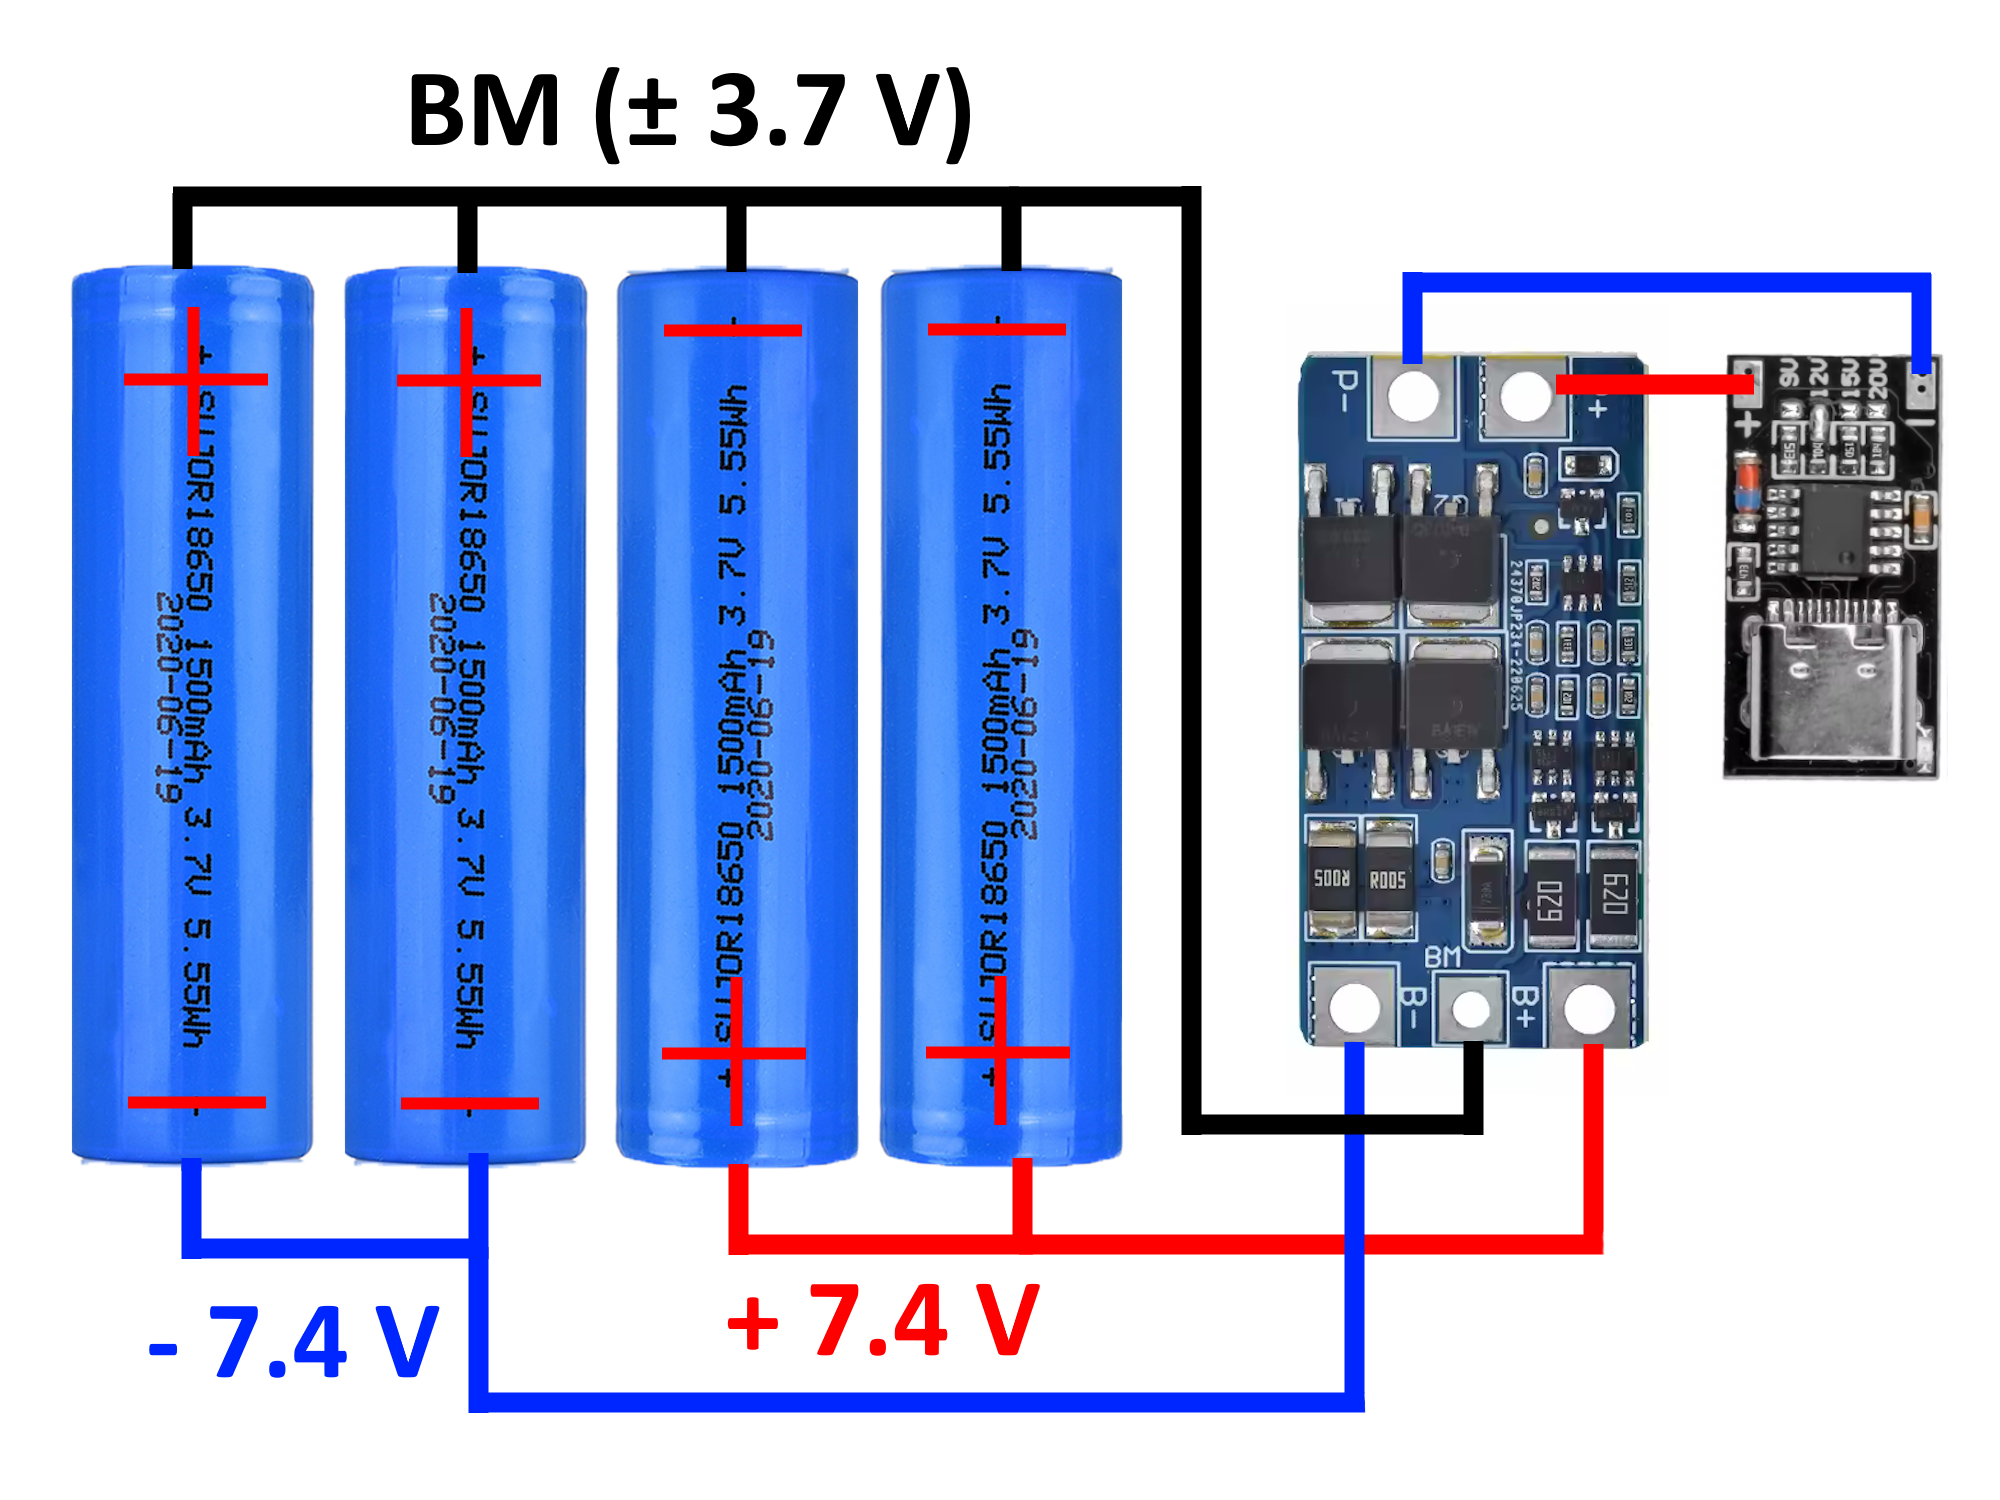
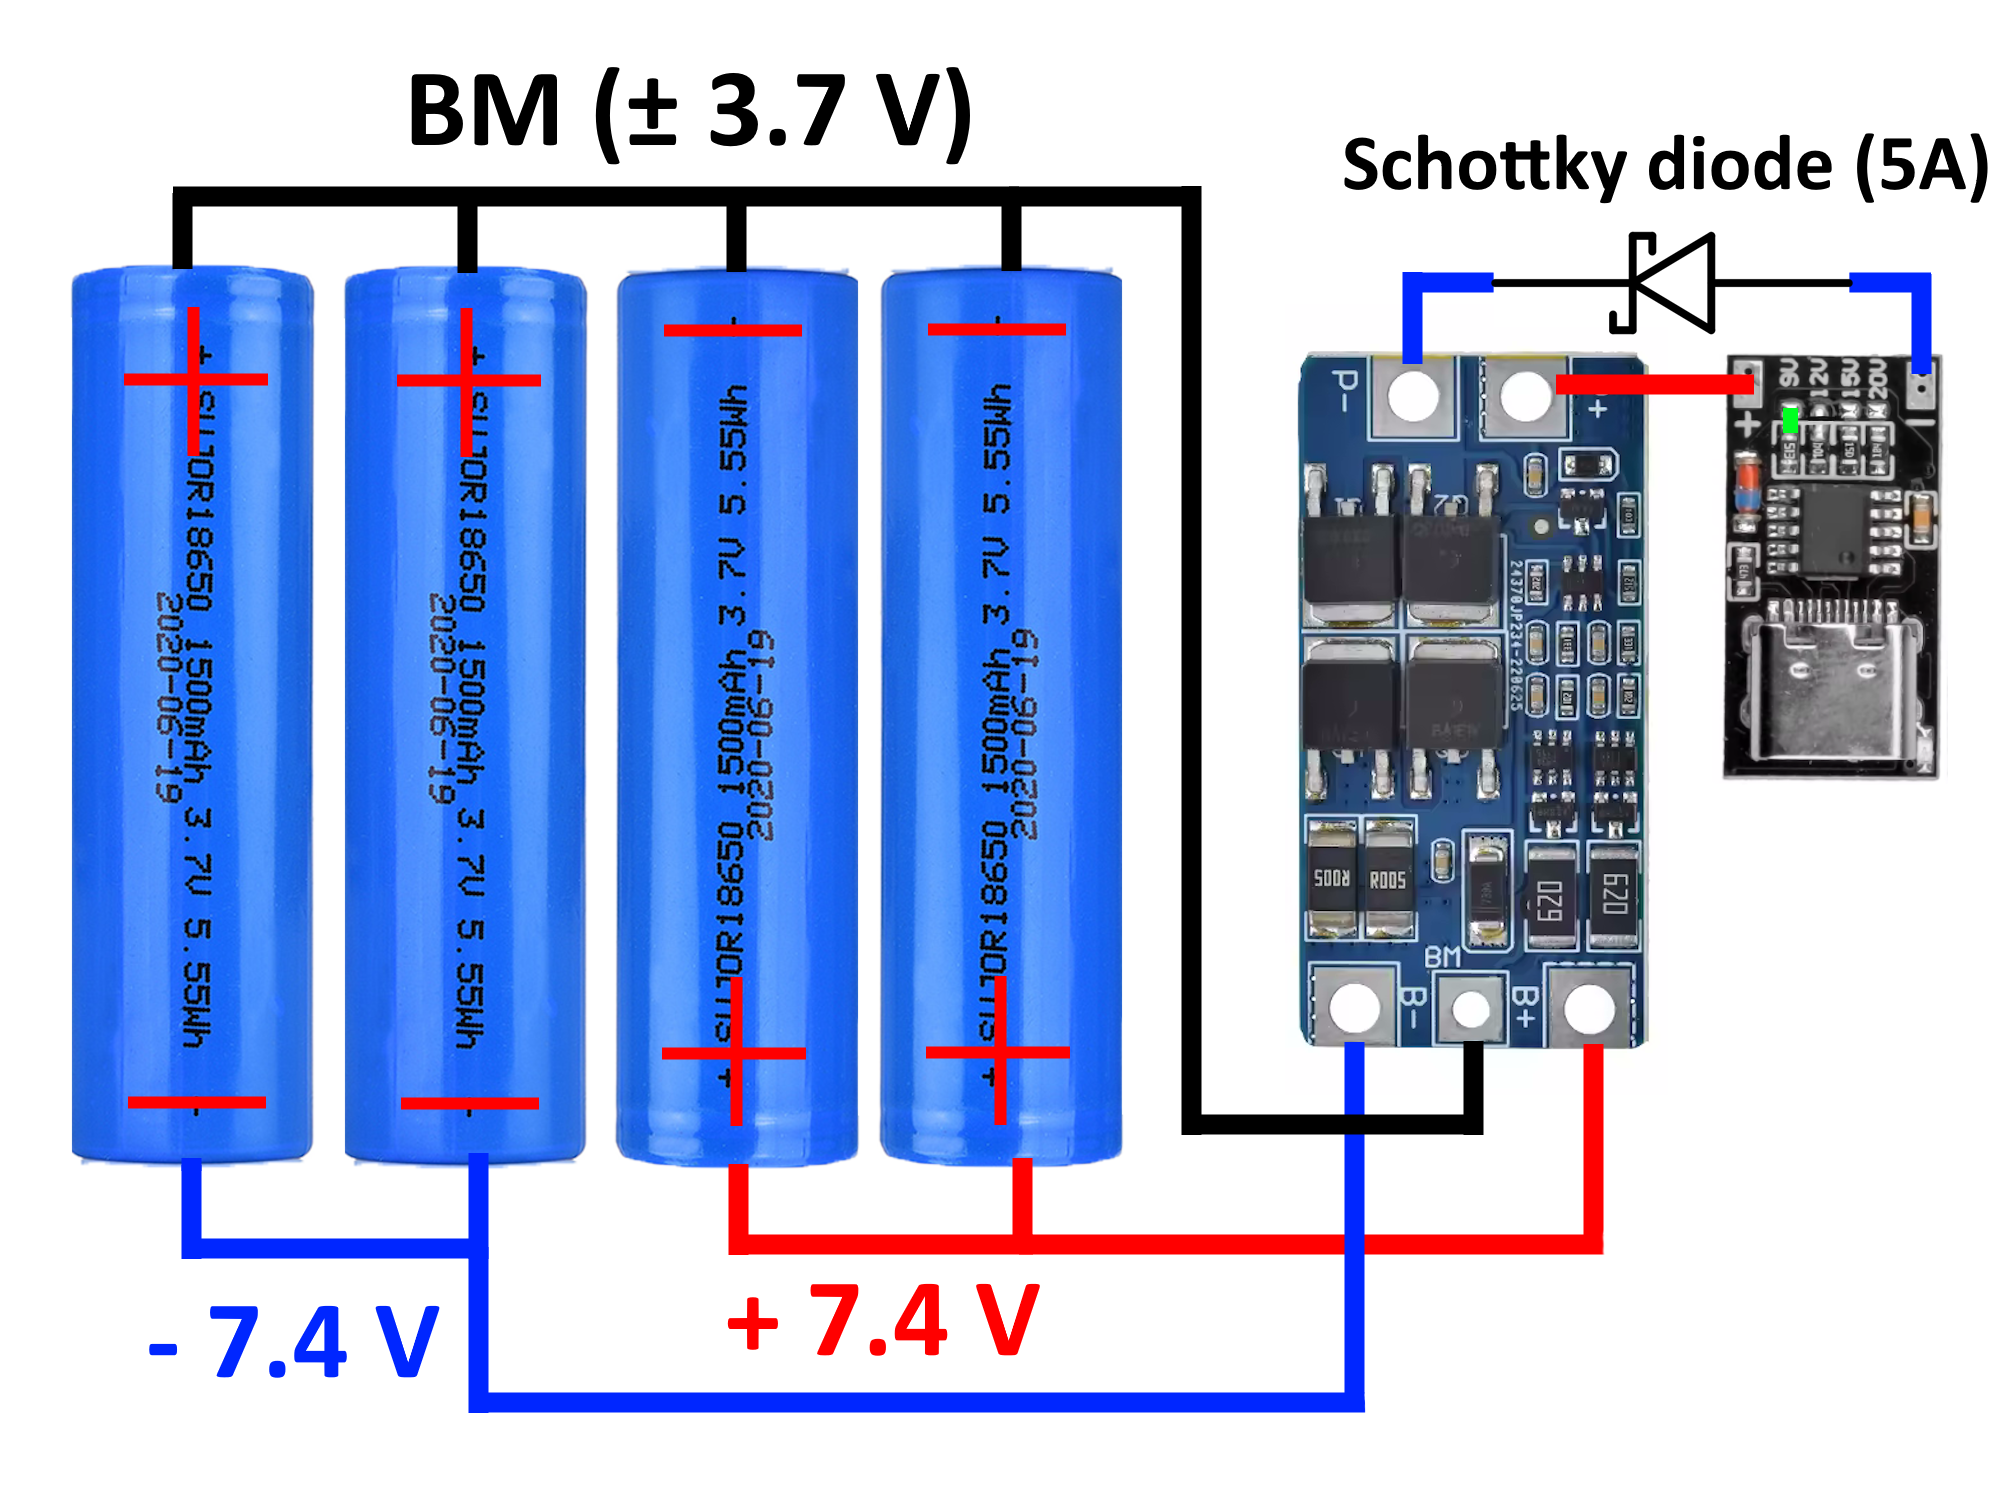
Added a README and further progress documentation

Changed region(s): [[0.651, 0.092, 1.0, 0.1533], [0.744, 0.1533, 0.93, 0.2147]]

diff --git a/README.md b/README.md
@@ -1,0 +1,91 @@
+#AirSoftHelper
+
+AirSoftHelper is a work in progress project designed for a local AirSoft team. It is supposed to replicate the visual and auditory functionality of a C4 explosive from the Counter Strike video game.
+
+##Implementation
+
+My iteration is based on Arduino Uno, receiving user input from a matrix keypad and displaying output on a TM1637 display module. In addition, the device uses two 3W drivers and a PAM8403 amplifier for audio feedback.
+
+#Build
+
+Keep in mind, that this was built under home conditions with common hand tools and materials.
+
+##Power
+
+I started off by taking apart 4 old powerbanks to harvest their 18650 cells.
+
+![Powerbanks](images/power/powerbank_cells.png)
+
+After that, I measured their voltages with a multimeter to make sure they are not below their cut-off voltage and will still work (In my case, they were 3.7 V cells).
+
+In terms of the cell arrangement, I chose to go with 2S2P (2 parallely connected packs of 2 cells connected in series), as it will supply around 7.4V, which is the voltage all used components can operate at.
+
+As for the charging and battery management, I will be using an HX-2S BMS board. The datasheet of this module requires us to place a Schottky diode on the input terminals, so that it directs the flow of current towards the charger and prevents voltage leak from the cells (I used one rated for 5 A, choose yours according to your adapter).
+
+In addition, a USB-C PowerDelivery dummy board will be serving as a trigger board, ensuring that any USB-C adapter can be used to charge the pack. To determine the voltage it will request from the charger, short the pads on the board corresponding to the desired voltage (The BMS board used in this project recommends using 9 V as charging voltage).
+
+###Finished connection
+
+Based on the afore-mentioned conditions, I designed this block schematic:
+
+![BMS Power Circuit](images/diagrams/BMS_wiring_diagram.png)
+
+##Making the battery pack
+
+I first removed the already attached metal strips, sanded the terminal points evenly and cleaned them with isopropyl alcohol.
+
+Then, I arranged the cells based on my sketch, trimmed new nickel welding strips to size and started spot-welding the cells.
+
+![Spot-welding the cells](images/power/battery_weld.png)
+
+After they were connected, I used electrical tape to secure the cells in place and insulated the exposed ends of the pack, while leaving the needed contacts uncovered (± 7.4 V; 3.7 V - BMS).
+
+![Spot-welding the cells](images/power/finished_pack_base.png)
+
+At this stage, I wired up the battery pack by the schematic:
+
+![Finished pack](images/power/finished_pack.png)
+![Finished PD board](images/power/PD_adapter_9V_short.png)
+
+To finish the power section of the device, I added a backlit switch, which I modified to have an LED rather than a neon indicator light. Additionally, I mounted a 2 way terminal block for easy disconnetion.
+
+![Finished PD board](images/power/switch.png)
+
+##Electronics
+
+Based on the datasheets of the components, I designed this diagram:
+
+![Main electronics diagram](images/diagrams/arduino_maincircuit.png)
+
+To test everything, I first assembled the device on a breadboard:
+
+![Breadboard assembly](images/device/setup_off.png)
+
+Status: waiting for the MP3 DFPlayer Mini to arrive
+
+##Assembly
+
+I bought a clear plastic container with a lid, originally intended for food storage, that would suit the layout of the device.
+
+![Plastic container](images/device/plastic_container.png)
+
+
+Next, I sketched the layout of the components onto the lid and cut it out with an exacto knife. For the speakers, I drilled a set of 1.5 mm holes into the plastic to form a mesh.
+
+![Lid layout](images/device/lid_cutouts.png)
+![Speaker mesh](images/device/lid_speakerholes_done.png)
+
+This is what the device looks like now, with all the components in place and the switch turned on:
+
+![Container with components](images/device/lid_with_components.png)
+
+##Code
+
+So far, I have tested the modules with a simple program that requests user input for code and time by displaying a message "CODE", then waiting for a 4-digit keypad input and by displaying a message "TIME", then waiting for a 4-digit keypad input. The inputted digits are immediately shown on the display (when entering time, the colon symbol lights up). 
+
+![Code setup](images/device/setup_code.png)
+![Code setup input](images/device/setup_code_input.png)
+![Time setup](images/device/setup_time.png)
+![Time setup input](images/device/setup_time_input.png)
+
+I am currently waiting for the MP3 DFPlayer Mini to arrive, so that I can continue with further development.
